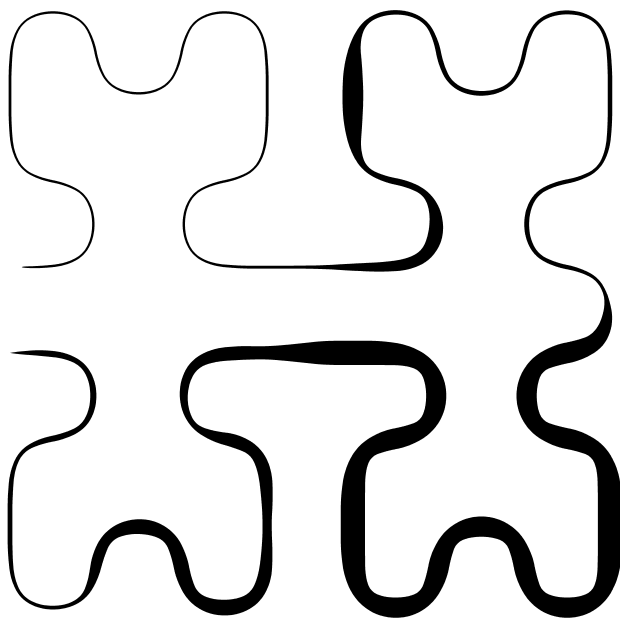
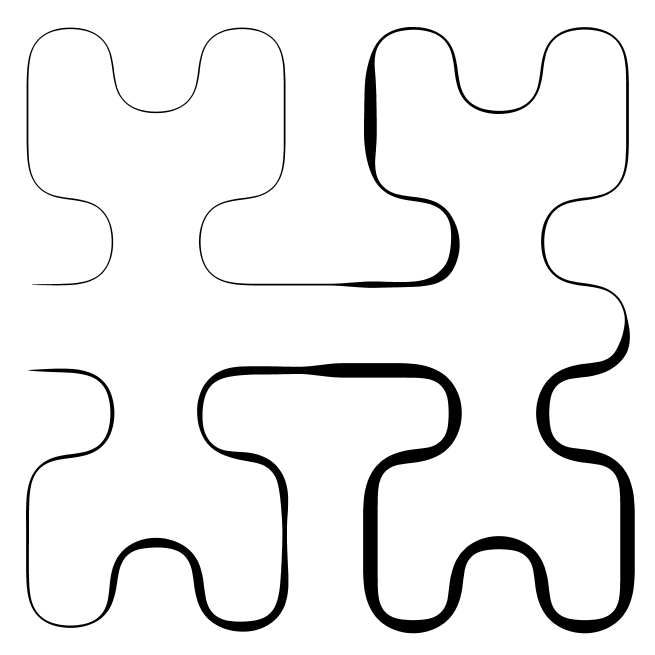
Moving things around

diff --git a/src/main/kotlin/se/kjellstrand/variablewidthline/VariableWidthLine.kt b/src/main/kotlin/se/kjellstrand/variablewidthline/VariableWidthLine.kt
@@ -9,17 +9,16 @@ import kotlin.math.*
 class VariableWidthLine {
 
     companion object {
-        fun drawPolygonToBufferedImage(line: List<LinePoint>,
-                                       g2: Graphics2D,
-                                       size: Double,
-                                       sidePadding: Double) {
+        fun drawLine(line: List<LinePoint>,
+                     g2: Graphics2D,
+                     size: Double) {
             val t0 = System.currentTimeMillis()
 
             val hull = buildHullFromPolygon(line, size)
             val t1 = System.currentTimeMillis()
             print("Build polygon: " + (t1 - t0) + "ms\n")
 
-            drawPolygon(hull, g2, sidePadding)
+            drawPolygon(hull, g2)
             val t2 = System.currentTimeMillis()
             print("Draw polygon: " + (t2 - t1) + "ms\n")
         }
@@ -35,10 +34,7 @@ class VariableWidthLine {
             g2.dispose()
         }
 
-        fun drawDebugPolygonPoints(line: List<LinePoint>,
-                                   g2: Graphics2D,
-                                   size: Double,
-                                   sidePadding: Double) {
+        fun drawDebugPolygonPoints(line: List<LinePoint>, g2: Graphics2D, size: Double, sidePadding: Double) {
             g2.paint = Color(1f, 0f, 0f, .3f)
             val width = 15
             line.forEach { p ->
@@ -72,7 +68,7 @@ class VariableWidthLine {
             return hull
         }
 
-        private fun drawPolygon(hull: MutableList<LinePoint>, g2: Graphics2D, sidePadding: Double) {
+        private fun drawPolygon(hull: MutableList<LinePoint>, g2: Graphics2D) {
             val path = GeneralPath()
             val polygonInitialPP = LinePoint.getMidPoint(hull[hull.size - 1], hull[hull.size - 2])
             path.moveTo(polygonInitialPP.x, polygonInitialPP.y)
@@ -87,9 +83,6 @@ class VariableWidthLine {
             g2.paint = Color.BLACK
 
             path.closePath()
-            val at = AffineTransform()
-            at.translate(sidePadding, sidePadding)
-            path.transform(at)
             g2.fill(path)
         }
 

diff --git a/src/main/kotlin/se/kjellstrand/lsystem/LSystemRenderer.kt b/src/main/kotlin/se/kjellstrand/lsystem/LSystemRenderer.kt
@@ -3,6 +3,7 @@ package se.kjellstrand.lsystem
 import se.kjellstrand.variablewidthline.LinePoint
 import se.kjellstrand.variablewidthline.VariableWidthLine
 import java.awt.*
+import java.awt.geom.AffineTransform
 import java.awt.image.BufferedImage
 import java.lang.Exception
 
@@ -15,13 +16,17 @@ object LSystemRenderer {
 
         adjustWidthAccordingToImage(line, brightnessImage)
 
-        val sidePadding = VariableWidthLine.calculateSidesOfTriangle(line[2], line[3]).third *
-                outputImageSize / 5 + outputImageSize / 60
+        val sidePadding = VariableWidthLine.calculateSidesOfTriangle(line[20], line[21]).third + 0.02
 
-        val (bufferedImage, g2) = setupGraphics(outputImageSize, sidePadding)
+        val (bufferedImage, g2) = setupGraphics(outputImageSize, sidePadding*outputImageSize)
 
-        VariableWidthLine.drawPolygonToBufferedImage(line, g2, outputImageSize, sidePadding)
-        // lSystem.polygon.VariableWidthPolygon.drawDebugPolygon(polygon, g2, outputImageSize, sidePadding)
+        line.forEach { lp ->
+            lp.x += sidePadding
+            lp.y += sidePadding
+        }
+
+        VariableWidthLine.drawLine(line, g2, outputImageSize)
+
         VariableWidthLine.tearDownGraphics(g2)
 
         val t1 = System.currentTimeMillis()

diff --git a/src/main/kotlin/se/kjellstrand/lsystem/LSystemGenerator.kt b/src/main/kotlin/se/kjellstrand/lsystem/LSystemGenerator.kt
@@ -140,7 +140,7 @@ object LSystemGenerator {
 
     private fun addSplineBetweenPoints(pp1: Point, pp2: Point, pp3: Point,
                                        outputList: MutableList<Point>) {
-        val tincrement = 1.0 / 3.0
+        val tincrement = 1.0 / 5.0
         var t = 0.0
         while (t < (1.0 - (tincrement / 2.0))) {
             // The bezier square spline is calculated using this formula from wikipedia.
